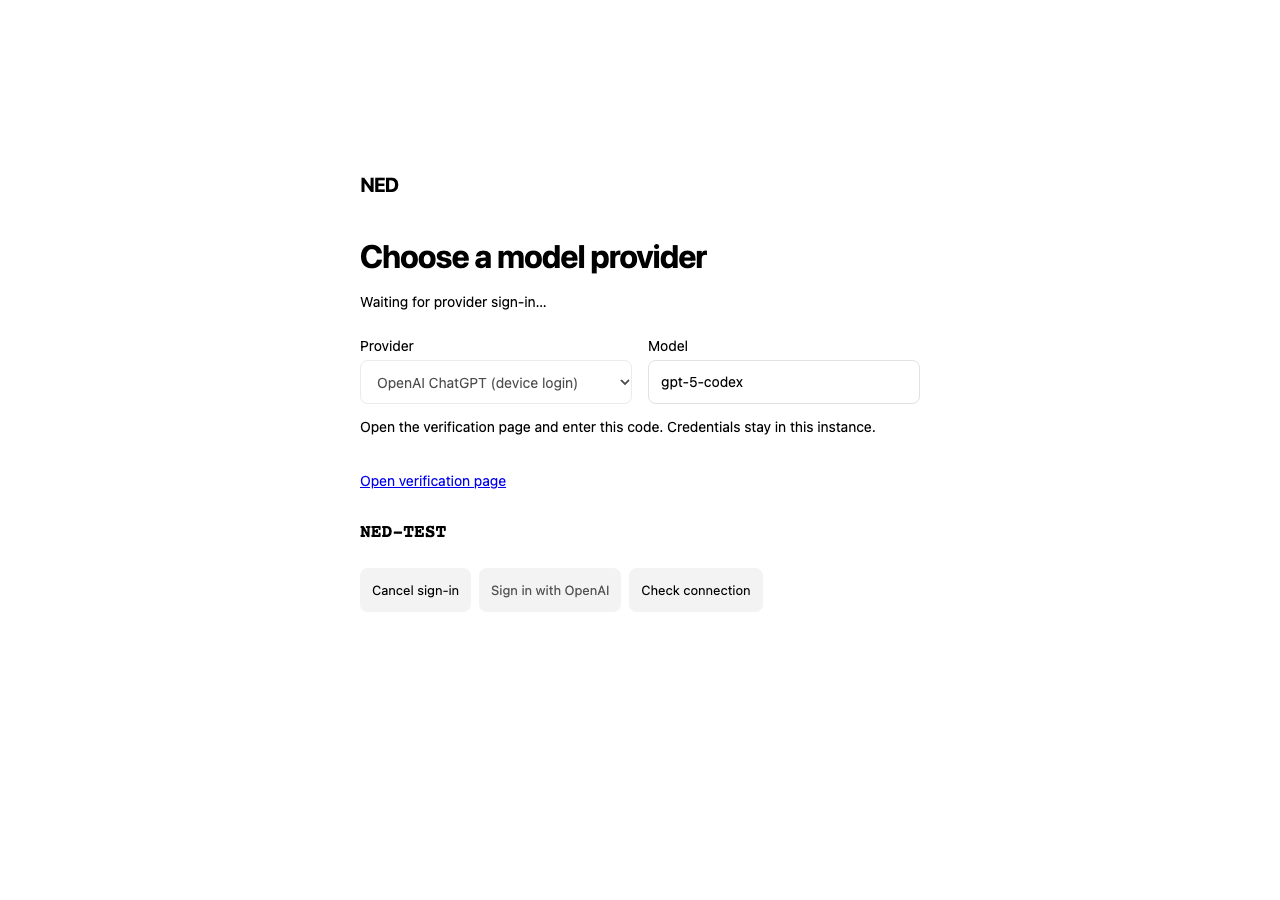
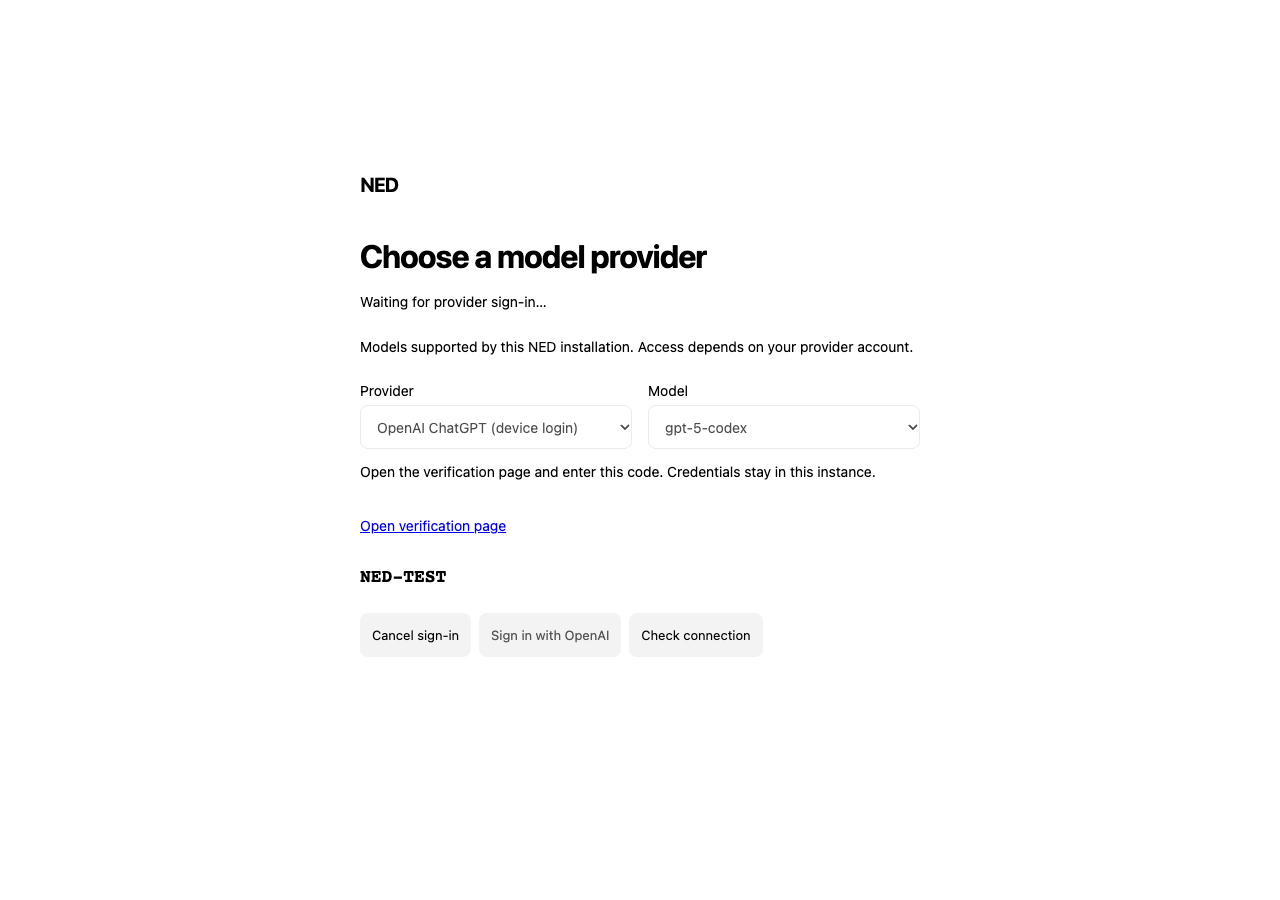
feat: populate provider-specific model choices from Hermes

Changed region(s): [[0.2812, 0.3733, 0.7188, 0.7156], [0.5, 0.6533, 0.5938, 0.7156], [0.375, 0.6533, 0.4688, 0.7156]]

diff --git a/docs/features/model-setup/tests/TC-002.test.js b/docs/features/model-setup/tests/TC-002.test.js
@@ -1,3 +1,4 @@
+import {modelCatalog} from './catalog-fixture.js';
 import test from 'node:test';
 import assert from 'node:assert/strict';
 import {mkdtemp,mkdir,readFile,rm} from 'node:fs/promises';
@@ -10,7 +11,7 @@ import {browserChat,expect} from '../../communicator/tests/browser-chat-fixture.
 test('TC-002: served local provider setup clears secrets, preserves draft and bypasses configured profiles',{timeout:45000},async t=>{
   const root=await mkdtemp(path.join(tmpdir(),'ned-model-ui-'));t.after(()=>rm(root,{recursive:true,force:true}));
   let reject=true,calls=0;
-  const models=createModelSetup({home:root,env:{HERMES_HOME:path.join(root,'profile')},fetch:async(url,options)=>{calls++;assert.equal(url,'https://openrouter.ai/api/v1/key');assert.equal(options.headers.Authorization,'Bearer synthetic-local-provider-key');return new Response('{}',{status:reject?401:200});}});
+  const models=createModelSetup({modelCatalog,home:root,env:{HERMES_HOME:path.join(root,'profile')},fetch:async(url,options)=>{calls++;assert.equal(url,'https://openrouter.ai/api/v1/key');assert.equal(options.headers.Authorization,'Bearer synthetic-local-provider-key');return new Response('{}',{status:reject?401:200});}});
   const chat=await browserChat(t,{modelSetup:models});await chat.ready();
   const card=chat.page.locator('#model-setup');await expect(card).toBeVisible();await expect(chat.page.locator('#chat-send')).toBeDisabled();
   await expect(card).toHaveAttribute('open','');
@@ -31,9 +32,9 @@ test('TC-002: served local provider setup clears secrets, preserves draft and by
 test('TC-002: hosted setup offers instance configuration and optional account inheritance without copying an account key',{timeout:45000},async t=>{
   const root=await mkdtemp(path.join(tmpdir(),'ned-hosted-model-ui-'));t.after(()=>rm(root,{recursive:true,force:true}));
   const id=randomUUID(),origin='https://staging.ned.datanav.app',token='ned_'+'h'.repeat(43),connection={id:randomUUID(),version:randomUUID(),provider:'openrouter',model:'openai/gpt-4.1'};let configured=false;
-  const models=createModelSetup({home:root,env:{HERMES_HOME:path.join(root,'profile')},fetch:async()=>Response.json({configured,connection:configured?connection:null,baseUrl:origin+'/api/models/instances/'+id+'/v1'})});
+  const models=createModelSetup({modelCatalog,home:root,env:{HERMES_HOME:path.join(root,'profile')},fetch:async()=>Response.json({configured,connection:configured?connection:null,baseUrl:origin+'/api/models/instances/'+id+'/v1'})});
   await models.register({origin,id,token,kind:'hosted'});
-  const chat=await browserChat(t,{modelSetup:models});await chat.ready();await expect(chat.page.locator('#model-setup')).toBeVisible();await expect(chat.page.locator('#model-setup-form')).toBeVisible();await expect(chat.page.getByRole('link',{name:'Set up in NED Hub'})).toHaveAttribute('href',origin+'/?settings=model');
+  const chat=await browserChat(t,{modelSetup:models});await chat.ready();await expect(chat.page.locator('#model-setup')).toBeVisible();await expect(chat.page.locator('#model-setup-form')).toBeVisible();await expect(chat.page.getByRole('link',{name:'Set up in NED Hub'})).toHaveCount(0);
   configured=true;await chat.page.getByRole('button',{name:'Check connection'}).click();await expect(chat.page.locator('#model-setup')).toBeHidden();await expect(chat.page.locator('#chat-send')).toBeEnabled();
   const profile=await readFile(path.join(root,'profile/config.yaml'),'utf8');assert(profile.includes(token));assert(!profile.includes('synthetic-local-provider-key'));await chat.send('Hosted inherited connection');assert.deepEqual(chat.errors,[]);
 });
@@ -42,7 +43,7 @@ test('TC-002: instance device login shows only challenge, supports cancel/retry 
   const root=await mkdtemp(path.join(tmpdir(),'ned-device-ui-')),profile=path.join(root,'profile');await mkdir(profile,{mode:0o700});t.after(()=>rm(root,{recursive:true,force:true}));
   let approve,stops=0;
   const adapter={available:async()=>true,async start(input,hooks){let reject,resolve;const done=new Promise((yes,no)=>{resolve=yes;reject=no;});approve=async()=>{let release;try{release=await hooks.beforeCommit();await import('node:fs/promises').then(fs=>fs.writeFile(path.join(profile,'config.yaml'),'model: {provider: openai, default: fixture, api_key: synthetic-configured-key}\n',{mode:0o600}));resolve();}finally{await release?.();}};queueMicrotask(()=>hooks.event({type:'challenge',verificationUri:'https://auth.openai.com/codex/device',userCode:'NED-TEST',deviceSecret:'never-display'}));return {done,stop(){stops++;reject(Error('cancelled'));}};}};
-  const models=createModelSetup({home:root,env:{HERMES_HOME:profile},hermesAdapter:adapter});
+  const models=createModelSetup({modelCatalog,home:root,env:{HERMES_HOME:profile},hermesAdapter:adapter});
   const chat=await browserChat(t,{modelSetup:models});await chat.ready();await expect(chat.page.locator('#model-setup')).toBeVisible();
   await chat.page.getByLabel('Provider',{exact:true}).selectOption('openai-codex');await expect(chat.page.locator('#model-key')).toBeHidden();await chat.page.getByRole('button',{name:'Sign in with OpenAI',exact:true}).click();await expect(chat.page.locator('#model-device-code')).toHaveText('NED-TEST');assert(!(await chat.page.content()).includes('never-display'));
   if(process.env.NED_MODEL_SCREENSHOT_DIR){await mkdir(process.env.NED_MODEL_SCREENSHOT_DIR,{recursive:true});for(const width of [1280,320]){await chat.page.setViewportSize({width,height:900});assert.equal(await chat.page.evaluate(()=>globalThis.document.documentElement.scrollWidth>globalThis.innerWidth),false);await chat.page.screenshot({path:path.join(process.env.NED_MODEL_SCREENSHOT_DIR,'device-'+width+'.png')});}}
@@ -54,7 +55,7 @@ test('TC-002: instance device login shows only challenge, supports cancel/retry 
 
 test('TC-002: status failure cannot bypass first-use setup and lost access clears the flow before reauthentication',{timeout:45000},async t=>{
   const root=await mkdtemp(path.join(tmpdir(),'ned-model-gate-'));t.after(()=>rm(root,{recursive:true,force:true}));
-  const models=createModelSetup({home:root,env:{HERMES_HOME:path.join(root,'profile')}});
+  const models=createModelSetup({modelCatalog,home:root,env:{HERMES_HOME:path.join(root,'profile')}});
   const chat=await browserChat(t,{modelSetup:models,deferLogin:true});
   let release;const waiting=new Promise(resolve=>{release=resolve;});
   let first=true;
@@ -71,4 +72,18 @@ test('TC-002: status failure cannot bypass first-use setup and lost access clear
   await expect(card).toBeHidden();await expect(chat.page.locator('#access-gate')).toBeVisible();await expect(chat.page.locator('#model-key')).toHaveValue('');
   await chat.page.locator('#access-token').fill(chat.accessToken);await chat.page.locator('#access-submit').click();
   await expect(card).toBeVisible();await expect(chat.page.locator('#model-setup-form')).toBeVisible();await expect(chat.page.locator('#chat-send')).toBeDisabled();assert.deepEqual(chat.errors,[]);
+});
+
+
+test('TC-002: provider choices, unavailable retry and existing unlisted model stay user friendly', {timeout:45000},async t=>{
+ const root=await mkdtemp(path.join(tmpdir(),'ned-model-picker-'));t.after(()=>rm(root,{recursive:true,force:true}));let inventory=await modelCatalog();
+ const models=createModelSetup({home:root,env:{HERMES_HOME:path.join(root,'profile')},modelCatalog:async()=>inventory});
+ const chat=await browserChat(t,{modelSetup:models});await chat.ready();const provider=chat.page.getByLabel('Provider',{exact:true}),select=chat.page.getByLabel('Model',{exact:true});
+ await expect(select).toHaveJSProperty('tagName','SELECT');await expect(chat.page.locator('#model-hub-link')).toHaveCount(0);
+ for(const [id,ids] of Object.entries(inventory)){if(id==='openai-codex')continue;await provider.selectOption(id);await expect(select.locator('option')).toHaveText(ids);await expect(select).toHaveValue(ids[0]);}
+ await chat.page.getByLabel('API key',{exact:true}).fill('synthetic-unsaved-provider-key');await provider.selectOption('openai');await expect(chat.page.getByLabel('API key',{exact:true})).toHaveValue('');await select.selectOption('gpt-4.1-mini');await chat.page.getByRole('button',{name:'Check connection',exact:true}).click();await expect(select).toHaveValue('gpt-4.1-mini');
+ inventory={};await chat.page.getByRole('button',{name:'Check connection',exact:true}).click();await expect(select).toHaveValue('');await expect(chat.page.getByRole('button',{name:'Connect provider',exact:true})).toBeDisabled();await expect(chat.page.locator('#model-catalog-status')).toContainText('unavailable');
+ inventory=await modelCatalog();await chat.page.getByRole('button',{name:'Check connection',exact:true}).click();await expect(select).toHaveValue('gpt-4.1');
+ await mkdir(path.join(root,'profile'),{recursive:true,mode:0o700});await (await import('node:fs/promises')).writeFile(path.join(root,'profile/config.yaml'),'model: {provider: openai, default: existing-custom-model, api_key: synthetic-existing-key}\n',{mode:0o600});
+ await chat.page.getByRole('button',{name:'Check connection',exact:true}).click();await expect(chat.page.locator('#model-setup')).toBeHidden();await chat.page.getByRole('button',{name:'Model provider',exact:true}).click();await expect(select).toHaveValue('existing-custom-model');await expect(select.locator('option:checked')).toBeDisabled();await expect(chat.page.getByRole('button',{name:'Connect provider',exact:true})).toBeDisabled();await expect(chat.page.locator('#model-setup-close')).toBeVisible();assert.deepEqual(chat.errors,[]);
 });

diff --git a/apps/com/src/public/model-setup.js b/apps/com/src/public/model-setup.js
@@ -1,7 +1,7 @@
 export function mountModelSetup({document,request=globalThis.fetch,changed=()=>{}}={}){
   const card=document.getElementById('model-setup'),toggle=document.getElementById('model-setup-toggle');
   if(!card||!toggle)return {ready:()=>true,refresh:async()=>{}};
-  const element=id=>document.getElementById(id),status=element('model-setup-status'),form=element('model-setup-form'),provider=element('model-provider'),model=element('model-name'),key=element('model-key'),hub=element('model-hub-link'),check=element('model-check');
+  const element=id=>document.getElementById(id),status=element('model-setup-status'),form=element('model-setup-form'),provider=element('model-provider'),model=element('model-name'),key=element('model-key'),check=element('model-check');
   let state,ready=false,busy=false,opened=false,nonce,closed=false,version=0,login,pollTimer;
   let authenticated=!document.getElementById('app-shell')?.hidden;
   const closeButton=element('model-setup-close');
@@ -19,7 +19,15 @@ export function mountModelSetup({document,request=globalThis.fetch,changed=()=>{
   document.addEventListener('ned-auth-lost',()=>{authenticated=false;version++;ready=false;state=null;nonce=null;login=null;clearTimeout(pollTimer);key.value='';render();});
   document.addEventListener('ned-auth-entered',()=>{const recheck=!authenticated;authenticated=true;render();if(recheck)void discover();});
   const pending=()=>login&&['starting','waiting','authorizing'].includes(login.state);
-  const defaults={openai:'gpt-4.1',openrouter:'openai/gpt-4.1',gemini:'gemini-2.5-flash',anthropic:'claude-sonnet-4-5','openai-codex':'gpt-5-codex'};
+  const providers=['openai','openrouter','gemini','anthropic','openai-codex'];
+  const choices=()=>Array.isArray(state?.models?.[provider.value])?state.models[provider.value].filter(id=>typeof id==='string'&&/^[a-zA-Z0-9][a-zA-Z0-9._:/-]{0,199}$/.test(id)).slice(0,100):[];
+  function populate(selected){
+    model.replaceChildren();const ids=choices();
+    for(const id of ids){const option=document.createElement('option');option.value=id;option.textContent=id;model.append(option);}
+    if(selected&&!ids.includes(selected)){const option=document.createElement('option');option.value=selected;option.textContent=selected+' (current configuration)';option.disabled=true;model.prepend(option);}
+    if(!model.options.length){const option=document.createElement('option');option.value='';option.textContent='Models unavailable';model.append(option);}
+    model.value=selected??ids[0]??'';
+  }
   function render(){
     const visible=!closed&&authenticated&&(!ready||opened);
     card.classList.toggle('model-onboarding',!ready);
@@ -29,14 +37,13 @@ export function mountModelSetup({document,request=globalThis.fetch,changed=()=>{
     else if(!visible&&card.open){card.close();if(authenticated&&ready)element('chat-message').focus();}
     form.hidden=!state;
     element('model-connect').hidden=form.hidden;
-    hub.hidden=!state?.settingsUrl;
-    hub.removeAttribute('href');
-    if(state?.settingsUrl)hub.href=state.settingsUrl;
+    const listed=choices().includes(model.value);
+    element('model-catalog-status').textContent=choices().length?'Models supported by this NED installation. Access depends on your provider account.':'Model list is unavailable. Check connection to try again.';
     const device=provider.value==='openai-codex';
     key.closest('.model-key-field').hidden=device;key.required=!device;
     provider.querySelector('[value="openai-codex"]').disabled=!state?.deviceLogin;
     for(const input of [provider,model,key,element('model-connect')])input.disabled=busy||Boolean(pending());
-    element('model-connect').disabled=busy||Boolean(pending())||!nonce;
+    element('model-connect').disabled=busy||Boolean(pending())||!nonce||!listed;
     element('model-connect').textContent=device?'Sign in with OpenAI':'Connect provider';
     element('model-login-cancel').hidden=!pending();element('model-login-cancel').disabled=busy||login?.state==='authorizing';
     const panel=element('model-device');panel.hidden=!pending()||!login.verificationUri;
@@ -52,7 +59,6 @@ export function mountModelSetup({document,request=globalThis.fetch,changed=()=>{
     if(!response.ok)throw new Error('Model settings are unavailable. Check configuration and try again.');
     const data=await response.json();
     if(typeof data.configured!=='boolean'||!['local','profile','hub'].includes(data.source))throw new Error('Model settings are unavailable. Check configuration and try again.');
-    if(data.settingsUrl){const url=new URL(data.settingsUrl);if(url.protocol!=='https:'&&!(url.protocol==='http:'&&['127.0.0.1','localhost','[::1]'].includes(url.hostname)))throw new Error('Invalid settings');}
     return data;
   }
   async function refresh(forceOpen=false){
@@ -60,7 +66,7 @@ export function mountModelSetup({document,request=globalThis.fetch,changed=()=>{
     const current=++version;busy=true;render();
     try{
       const data=await read();if(closed||current!==version)return;
-      state=data;nonce=data.nonce;ready=data.configured;key.value='';if(Object.hasOwn(defaults,data.provider))provider.value=data.provider;if(typeof data.model==='string')model.value=data.model;if(data.login){login=data.login;schedulePoll();}
+      const previousProvider=provider.value,previousModel=model.value;state=data;nonce=data.nonce;ready=data.configured;key.value='';if(providers.includes(data.provider))provider.value=data.provider;populate(typeof data.model==='string'&&data.configured?data.model:previousProvider===provider.value&&choices().includes(previousModel)?previousModel:undefined);if(data.login){login=data.login;schedulePoll();}
       status.textContent=ready?'Model provider is configured.':'Model provider is required before chatting.';
     }catch{if(!closed&&current===version){ready=false;status.textContent='Model settings are unavailable. Check configuration and try again.';}}
     finally{if(!closed&&current===version){busy=false;render();}}
@@ -91,8 +97,9 @@ export function mountModelSetup({document,request=globalThis.fetch,changed=()=>{
     if(busy||!pending())return;const current=version;busy=true;render();
     try{const response=await request('/api/v1/model-setup',{method:'POST',headers:{'Content-Type':'application/json','X-NED-Models':'1'},body:JSON.stringify({action:'cancel-login',id:login.id}),signal:AbortSignal.timeout(15000)});if(closed||current!==version)return;if(!response.ok)throw Error();login=null;clearTimeout(pollTimer);await refresh(true);status.textContent='Provider sign-in cancelled.';}catch{status.textContent='Check connection before retrying sign-in.';}finally{busy=false;render();}
   });
-  form.addEventListener('submit',event=>{event.preventDefault();if(!nonce||busy)return;const body={nonce,provider:provider.value,model:model.value,replace:state?.source!=='local',...(provider.value==='openai-codex'?{action:'login'}:{apiKey:key.value})};nonce=null;void write(body);});
-  provider.addEventListener('change',()=>{model.value=defaults[provider.value]??'';render();});
+  form.addEventListener('submit',event=>{event.preventDefault();if(!nonce||busy||!choices().includes(model.value))return;const body={nonce,provider:provider.value,model:model.value,replace:state?.source!=='local',...(provider.value==='openai-codex'?{action:'login'}:{apiKey:key.value})};nonce=null;void write(body);});
+  provider.addEventListener('change',()=>{key.value='';populate();render();});
+  model.addEventListener('change',render);
   check.addEventListener('click',()=>{if(busy)return;if(state?.source==='hub')void write({action:'inherit'});else void refresh();});
   toggle.addEventListener('click',()=>{opened=!opened;render();if(opened)void refresh();});
   async function discover(){

diff --git a/apps/core/src/model-setup.js b/apps/core/src/model-setup.js
@@ -1,3 +1,4 @@
+import {cleanModelCatalog} from './model-catalog.js';
 import {constants} from 'node:fs';
 import {open,mkdir,lstat,rename,unlink} from 'node:fs/promises';
 import {homedir} from 'node:os';
@@ -39,7 +40,7 @@ async function jsonResponse(response,limit=32768){
   for await(const chunk of response.body){size+=chunk.length;if(size>limit){await response.body.cancel().catch(()=>{});throw new ModelSetupError();}chunks.push(chunk);}
   return JSON.parse(Buffer.concat(chunks).toString('utf8'));
 }
-export function createModelSetup({home=homedir(),env=process.env,fetch:request=globalThis.fetch,enabled=true,hermesAdapter,clock=Date.now}={}){
+export function createModelSetup({home=homedir(),env=process.env,fetch:request=globalThis.fetch,enabled=true,hermesAdapter,modelCatalog,clock=Date.now}={}){
   const root=env.HERMES_HOME??path.join(home,'.hermes'),intents=new Map(),requests=new Set();
   const adapter=hermesAdapter??createHermesModelAdapter({env,profile:root}),logins=new Map();
   let hub,closed=false,queue=Promise.resolve();
@@ -132,20 +133,22 @@ export function createModelSetup({home=homedir(),env=process.env,fetch:request=g
       return {provider:'custom:ned-hub',model:c.model};
     });
   }
+  async function catalog(){try{return cleanModelCatalog(await (modelCatalog?modelCatalog():adapter.catalog?.()));}catch{return cleanModelCatalog(null);}}
   async function status(){
     if(closed)throw new ModelSetupError();
     const deviceLogin=enabled&&process.platform!=='win32'&&await adapter.available();
     const identity=hub,current=await profile();if(identity!==hub)throw new ModelSetupError(409,'model_setup_changed');
+    const models=modelCatalog||deviceLogin?await catalog():cleanModelCatalog(null);
     const settingsUrl=identity?identity.origin+'/?settings=model':null;
     for(const [nonce,intent]of intents)if(intent.expires<clock())intents.delete(nonce);
     if(intents.size>=16)intents.delete(intents.keys().next().value);
-    const nonce=randomBytes(32).toString('base64url');intents.set(nonce,{fingerprint:current.fingerprint,expires:clock()+300000});
+    const nonce=randomBytes(32).toString('base64url');intents.set(nonce,{fingerprint:current.fingerprint,expires:clock()+300000,models});
     if(current.kind==='hub'){
-      if(!hub||current.marker.origin!==hub.origin||current.marker.instanceId!==hub.id)return {deviceLogin,login:activeLogin(),configured:false,source:'hub',settingsUrl,hosted:hub?.kind==='hosted',canDisconnect:['local','hub','instance'].includes(current.config.ned_model?.kind),nonce};
-      const data=await remote(identity);if(identity!==hub)throw new ModelSetupError(409,'model_setup_changed');return {deviceLogin,login:activeLogin(),configured:Boolean(data.connection)&&data.connection.version===current.marker.connectionVersion&&current.entry.api_key===hub.token,source:'hub',settingsUrl,hosted:hub.kind==='hosted',canDisconnect:true,provider:data.connection?.provider,model:data.connection?.model??null,nonce};
+      if(!hub||current.marker.origin!==hub.origin||current.marker.instanceId!==hub.id)return {models,catalogSource:'installed-hermes',deviceLogin,login:activeLogin(),configured:false,source:'hub',settingsUrl,hosted:hub?.kind==='hosted',canDisconnect:['local','hub','instance'].includes(current.config.ned_model?.kind),nonce};
+      const data=await remote(identity);if(identity!==hub)throw new ModelSetupError(409,'model_setup_changed');return {models,catalogSource:'installed-hermes',deviceLogin,login:activeLogin(),configured:Boolean(data.connection)&&data.connection.version===current.marker.connectionVersion&&current.entry.api_key===hub.token,source:'hub',settingsUrl,hosted:hub.kind==='hosted',canDisconnect:true,provider:data.connection?.provider,model:data.connection?.model??null,nonce};
     }
-    if(current.kind==='profile')return {deviceLogin,login:activeLogin(),configured:true,source:'profile',settingsUrl,hosted:hub?.kind==='hosted',canDisconnect:['local','hub','instance'].includes(current.config.ned_model?.kind),provider:current.config.ned_model?.selectedProvider??current.model.provider,model:publicModel(current),nonce};
-    return {deviceLogin,login:activeLogin(),configured:false,source:current.config.ned_model?.kind==='instance'?'local':hub?'hub':'local',settingsUrl,hosted:hub?.kind==='hosted',canDisconnect:['local','hub','instance'].includes(current.config.ned_model?.kind),nonce};
+    if(current.kind==='profile')return {models,catalogSource:'installed-hermes',deviceLogin,login:activeLogin(),configured:true,source:'profile',settingsUrl,hosted:hub?.kind==='hosted',canDisconnect:['local','hub','instance'].includes(current.config.ned_model?.kind),provider:current.config.ned_model?.selectedProvider??current.model.provider,model:publicModel(current),nonce};
+    return {models,catalogSource:'installed-hermes',deviceLogin,login:activeLogin(),configured:false,source:current.config.ned_model?.kind==='instance'?'local':hub?'hub':'local',settingsUrl,hosted:hub?.kind==='hosted',canDisconnect:['local','hub','instance'].includes(current.config.ned_model?.kind),nonce};
   }
   const pending=j=>['starting','waiting','authorizing'].includes(j.state);
   const publicLogin=j=>j&&({id:j.id,state:j.state,expiresAt:j.expiresAt,...(pending(j)&&j.verificationUri?{verificationUri:j.verificationUri,userCode:j.userCode}:{})});
@@ -179,6 +182,7 @@ export function createModelSetup({home=homedir(),env=process.env,fetch:request=g
     if(!enabled||closed)throw new ModelSetupError(403,'model_setup_forbidden');
     const intent=intents.get(input?.nonce);intents.delete(input?.nonce);
     if(!intent||intent.expires<clock()||Object.keys(input).some(k=>!['action','nonce','provider','model','replace'].includes(k))||input.provider!=='openai-codex'||!validModel(input.model)||input.replace!==undefined&&typeof input.replace!=='boolean')throw new ModelSetupError(400,'model_setup_invalid');
+    if(!intent.models?.[input.provider]?.includes(input.model)||!(await catalog())[input.provider]?.includes(input.model))throw new ModelSetupError(400,'model_setup_invalid');
     if([...logins.values()].some(j=>!j.finished))throw new ModelSetupError(409,'model_login_active');
     const current=await profile();if(current.fingerprint!==intent.fingerprint||current.kind!=='missing'&&input.replace!==true)throw new ModelSetupError(409,'model_setup_changed');
     if(!await adapter.available())throw new ModelSetupError(503,'model_authentication_unavailable');
@@ -219,6 +223,7 @@ export function createModelSetup({home=homedir(),env=process.env,fetch:request=g
       if(!enabled)throw new ModelSetupError(403,'model_setup_forbidden');
       const intent=intents.get(input?.nonce);intents.delete(input?.nonce);
       if(!intent||intent.expires<clock()||!input||Object.keys(input).some(k=>!['nonce','provider','model','apiKey','replace'].includes(k))||input.replace!==undefined&&typeof input.replace!=='boolean'||typeof input.provider!=='string'||!Object.hasOwn(providerUrls,input.provider)||!validModel(input.model)||typeof input.apiKey!=='string'||!/^[\x21-\x7e]{16,4096}$/.test(input.apiKey))throw new ModelSetupError(400,'model_setup_invalid');
+      if(!intent.models?.[input.provider]?.includes(input.model)||!(await catalog())[input.provider]?.includes(input.model))throw new ModelSetupError(400,'model_setup_invalid');
       return (async()=>{
         const current=await profile();if(current.fingerprint!==intent.fingerprint||current.kind!=='missing'&&input.replace!==true)throw new ModelSetupError(409,'model_setup_changed');
         const provider=input.provider,headers=provider==='gemini'?{'x-goog-api-key':input.apiKey}:provider==='anthropic'?{'x-api-key':input.apiKey,'anthropic-version':'2023-06-01'}:{Authorization:'Bearer '+input.apiKey};

diff --git a/docs/features/model-setup/tests/TC-003.test.js b/docs/features/model-setup/tests/TC-003.test.js
@@ -1,3 +1,4 @@
+import {modelCatalog} from './catalog-fixture.js';
 import test from 'node:test';
 import assert from 'node:assert/strict';
 import {mkdtemp,mkdir,rm,readFile,writeFile} from 'node:fs/promises';
@@ -10,7 +11,7 @@ const until=async(fn,predicate)=>{for(let i=0;i<1000;i++){const value=await fn()
 async function fixture(t,{clock=Date.now}={}){
   const root=await mkdtemp(path.join(tmpdir(),'ned-device-')),profile=path.join(root,'profile');await mkdir(profile,{mode:0o700});let event,commit,resolve,reject,commits=0,stops=0;
   const adapter={available:async()=>true,async start(input,hooks){event=hooks.event;commit=hooks.beforeCommit;const done=new Promise((yes,no)=>{resolve=yes;reject=no;});queueMicrotask(()=>event({type:'challenge',verificationUri:'https://auth.openai.com/codex/device',userCode:'NED-TEST',deviceSecret:'never-return'}));return {done,stop(){stops++;reject(Error('stopped'));}};}};
-  const models=createModelSetup({home:root,env:{HERMES_HOME:profile},hermesAdapter:adapter,clock});t.after(async()=>{await models.close();await rm(root,{recursive:true,force:true});});
+  const models=createModelSetup({modelCatalog,home:root,env:{HERMES_HOME:profile},hermesAdapter:adapter,clock});t.after(async()=>{await models.close();await rm(root,{recursive:true,force:true});});
   return {models,profile,get commits(){return commits;},get stops(){return stops;},async approve(){let release;try{release=await commit();commits++;await writeFile(path.join(profile,'config.yaml'),'model: {provider: openai, default: persisted}\n',{mode:0o600});resolve();}catch{reject(Error('denied'));}finally{await release?.();}},event:value=>event(value)};
 }
 async function start(f,authorize=()=>true){return f.models.startLogin({action:'login',nonce:(await f.models.status()).nonce,provider:'openai-codex',model:'fixture-model'},authorize);}
@@ -36,7 +37,7 @@ test('TC-003: Gemini and Claude keys validate at fixed native provider endpoints
   for(const provider of ['gemini','anthropic'])await t.test(provider,async t=>{
     const root=await mkdtemp(path.join(tmpdir(),'ned-native-key-')),profile=path.join(root,'profile');await mkdir(profile,{mode:0o700});let commits=0;
     const key='synthetic-native-provider-key';const adapter={available:async()=>true,async start(input,hooks){assert.equal(input.action,'configure');assert.equal(input.provider,provider);assert.equal(input.apiKey,key);const done=(async()=>{const release=await hooks.beforeCommit();try{commits++;await writeFile(path.join(profile,'.env'),(provider==='gemini'?'GEMINI_API_KEY':'ANTHROPIC_API_KEY')+'='+key+'\n',{mode:0o600});await writeFile(path.join(profile,'config.yaml'),'model: {provider: '+provider+', default: chosen}\nned_model: {kind: instance}\n',{mode:0o600});}finally{await release();}})();return {done,stop(){}};}};
-    const models=createModelSetup({home:root,env:{HERMES_HOME:profile},hermesAdapter:adapter,fetch:async(url,options)=>{if(String(url).includes('/api/models/instances/'))return Response.json({configured:false,connection:null,baseUrl:'https://hub.example/api/models/instances/'+ 'a'.repeat(36)+'/v1'});assert.equal(url,provider==='gemini'?'https://generativelanguage.googleapis.com/v1beta/models':'https://api.anthropic.com/v1/models');assert.equal(options.headers[provider==='gemini'?'x-goog-api-key':'x-api-key'],key);assert.equal(options.redirect,'error');return new Response('{}');}});
+    const models=createModelSetup({modelCatalog,home:root,env:{HERMES_HOME:profile},hermesAdapter:adapter,fetch:async(url,options)=>{if(String(url).includes('/api/models/instances/'))return Response.json({configured:false,connection:null,baseUrl:'https://hub.example/api/models/instances/'+ 'a'.repeat(36)+'/v1'});assert.equal(url,provider==='gemini'?'https://generativelanguage.googleapis.com/v1beta/models':'https://api.anthropic.com/v1/models');assert.equal(options.headers[provider==='gemini'?'x-goog-api-key':'x-api-key'],key);assert.equal(options.redirect,'error');return new Response('{}');}});
     t.after(async()=>{await models.close();await rm(root,{recursive:true,force:true});});
     await models.register({origin:'https://hub.example',id:'11111111-1111-4111-8111-111111111111',token:'ned_'+'a'.repeat(43),kind:'hosted'});
     const result=await models.configure({nonce:(await models.status()).nonce,provider,model:'chosen',apiKey:key});assert.equal(result.configured,true);assert.equal(commits,1);assert.equal((await models.prepare()).provider,provider);assert(!(JSON.stringify(await models.status())).includes(key));
@@ -46,7 +47,7 @@ test('TC-003: Gemini and Claude keys validate at fixed native provider endpoints
 test('TC-003: cancellation retains its process slot until the owned child actually exits',async t=>{
   const root=await mkdtemp(path.join(tmpdir(),'ned-device-stop-')),profile=path.join(root,'profile');await mkdir(profile,{mode:0o700});const exits=[];let started=0;
   const adapter={available:async()=>true,async start(input,hooks){started++;const done=new Promise((resolve,reject)=>{exits.push(()=>reject(Error('owned child exited')));});queueMicrotask(()=>hooks.event({type:'challenge',verificationUri:'https://auth.openai.com/codex/device',userCode:'NED-TEST'}));return {done,stop(){/* Termination requested; the controlled child has not exited. */}};}};
-  const models=createModelSetup({home:root,env:{HERMES_HOME:profile},hermesAdapter:adapter});t.after(async()=>{for(const exit of exits)exit();await models.close();await rm(root,{recursive:true,force:true});});
+  const models=createModelSetup({modelCatalog,home:root,env:{HERMES_HOME:profile},hermesAdapter:adapter});t.after(async()=>{for(const exit of exits)exit();await models.close();await rm(root,{recursive:true,force:true});});
   const request=async()=>models.startLogin({action:'login',nonce:(await models.status()).nonce,provider:'openai-codex',model:'fixture'},()=>true);
   const job=await request();await until(()=>models.login(job.id),j=>j.state==='waiting');const cancelling=models.cancelLogin(job.id);await assert.rejects(request(),e=>e.code==='model_login_active');assert.equal(started,1);for(const exit of exits)exit();await cancelling;
 });

diff --git a/apps/com/src/public/index.html b/apps/com/src/public/index.html
@@ -59,8 +59,8 @@
 
       <dialog id="model-setup" aria-labelledby="model-setup-title" aria-describedby="model-setup-status" hidden><div class="model-setup-content"><div class="model-setup-header"><strong>NED</strong><button id="model-setup-close" type="button" aria-label="Close model settings" hidden>Close</button></div>
         <h2 id="model-setup-title" tabindex="-1">Choose a model provider</h2><p id="model-setup-status" role="status">Checking model configuration…</p>
-        <a id="model-hub-link" target="_blank" rel="noopener noreferrer" hidden>Set up in NED Hub</a>
-        <form id="model-setup-form" autocomplete="off" hidden><div class="model-field"><label for="model-provider">Provider</label><select id="model-provider"><option value="openai">OpenAI</option><option value="openrouter">OpenRouter</option><option value="gemini">Google Gemini</option><option value="anthropic">Claude (Anthropic)</option><option value="openai-codex" disabled>OpenAI ChatGPT (device login)</option></select></div><div class="model-field"><label for="model-name">Model</label><input id="model-name" value="gpt-4.1" maxlength="200" required></div><div class="model-field model-key-field"><label for="model-key">API key</label><input id="model-key" type="password" autocomplete="new-password" minlength="16" maxlength="4096" required></div></form>
+        <p id="model-catalog-status" role="status">Models supported by this NED installation. Access depends on your provider account.</p>
+        <form id="model-setup-form" autocomplete="off" hidden><div class="model-field"><label for="model-provider">Provider</label><select id="model-provider"><option value="openai">OpenAI</option><option value="openrouter">OpenRouter</option><option value="gemini">Google Gemini</option><option value="anthropic">Claude (Anthropic)</option><option value="openai-codex" disabled>OpenAI ChatGPT (device login)</option></select></div><div class="model-field"><label for="model-name">Model</label><select id="model-name" required aria-describedby="model-catalog-status"><option value="">Loading models…</option></select></div><div class="model-field model-key-field"><label for="model-key">API key</label><input id="model-key" type="password" autocomplete="new-password" minlength="16" maxlength="4096" required></div></form>
         <div id="model-device" hidden><p>Open the verification page and enter this code. Credentials stay in this instance.</p><a id="model-device-link" target="_blank" rel="noopener noreferrer">Open verification page</a><p><code id="model-device-code"></code></p></div>
         <div class="model-actions"><button id="model-login-cancel" type="button" hidden>Cancel sign-in</button><button id="model-connect" type="submit" form="model-setup-form">Connect provider</button><button id="model-check" type="button">Check connection</button><button id="model-disconnect" type="button" hidden>Disconnect instance provider</button></div>
       </div></dialog>

diff --git a/docs/features/model-setup/tests/TC-001.test.js b/docs/features/model-setup/tests/TC-001.test.js
@@ -1,3 +1,4 @@
+import {modelCatalog} from './catalog-fixture.js';
 import test from 'node:test';
 import assert from 'node:assert/strict';
 import {mkdtemp,mkdir,writeFile,readFile,stat,rm,symlink} from 'node:fs/promises';
@@ -10,7 +11,7 @@ import {createCommunicatorServer} from '../../../../apps/com/src/server.js';
 import {exposeNedApiPath} from '../../../../apps/core/src/api-paths.js';
 async function fixture(t,{config='',env={},fetch:request=async()=>new Response('{}'),enabled=true}={}){
   const root=await mkdtemp(path.join(tmpdir(),'ned-model-setup-')),profile=path.join(root,'profile');await mkdir(profile,{mode:0o700});if(config)await writeFile(path.join(profile,'config.yaml'),config,{mode:0o600});
-  const models=createModelSetup({home:root,env:{HERMES_HOME:profile,...env},fetch:request,enabled});
+  const models=createModelSetup({modelCatalog,home:root,env:{HERMES_HOME:profile,...env},fetch:request,enabled});
   t.after(async()=>{await models.close();await rm(root,{recursive:true,force:true});});return {root,profile,models,file:path.join(profile,'config.yaml')};
 }
 test('TC-001: private local setup validates provider, preserves YAML and consumes opaque writes once',async t=>{
@@ -62,4 +63,13 @@ test('TC-001: API credential revocation during provider validation prevents prof
   const saved=await fetch(app.url+'/api/v1/model-setup',{method:'POST',headers:{Authorization:'Bearer '+credential,Origin:app.url,'X-NED-Models':'1','Content-Type':'application/json'},body:JSON.stringify({nonce,provider:'openai',model:'gpt-4.1',apiKey:'synthetic-provider-key'})});
   assert.equal(saved.status,401);assert.equal((await saved.json()).error.code,'model_setup_unauthorized');assert.equal(await readFile(f.file,'utf8'),original);
   assert.equal((await fetch(app.url+'/api/v1/model-setup',{headers:{Authorization:'Bearer '+app.apiCredential,'X-NED-Models':'1'}})).status,200);
+});
+
+
+test('TC-001: model choices are provider-bound and rechecked before any credential validation/write',async t=>{
+ const f=await fixture(t);let calls=0,rows={openai:['listed-model'],openrouter:['other-provider/model']};
+ const models=createModelSetup({home:f.root,env:{HERMES_HOME:f.profile},modelCatalog:async()=>rows,fetch:async()=>{calls++;return Response.json({});}});t.after(()=>models.close());
+ for(const model of ['unknown-model','other-provider/model']){await assert.rejects(models.configure({nonce:(await models.status()).nonce,provider:'openai',model,apiKey:'synthetic-provider-key'}),e=>e.status===400);}
+ const selected=await models.status();rows={openai:[]};await assert.rejects(models.configure({nonce:selected.nonce,provider:'openai',model:'listed-model',apiKey:'synthetic-provider-key'}),e=>e.status===400);assert.equal(calls,0);
+ await assert.rejects(readFile(f.file),e=>e.code==='ENOENT');
 });

diff --git a/docs/features/model-setup/tests/hermes/live.test.js b/docs/features/model-setup/tests/hermes/live.test.js
@@ -15,7 +15,7 @@ test('TC-003 Hermes: real device exchange/store and Gemini/Claude config use pri
   await writeFile(launcher,'#!'+python+'\n'+await readFile(fixture,'utf8'),{mode:0o700});
   for(const provider of ['openai-codex','gemini','anthropic']){
     const profile=path.join(root,provider);await mkdir(profile,{mode:0o700});await writeFile(path.join(profile,'config.yaml'),'agent: {max_turns: 7}\n',{mode:0o600});
-    const adapter=createHermesModelAdapter({env:{PATH:'/usr/bin:/bin',NED_HERMES_SOURCE:source,NED_HERMES_PYTHON:launcher},profile});assert(await adapter.available());let challenges=0,commits=0;
+    const adapter=createHermesModelAdapter({env:{PATH:'/usr/bin:/bin',NED_HERMES_SOURCE:source,NED_HERMES_PYTHON:launcher},profile});assert(await adapter.available());const catalog=await adapter.catalog();for(const id of ['openai','openrouter','gemini','anthropic','openai-codex']){assert(catalog[id].length>0);assert(catalog[id].length<=100);assert(catalog[id].every(model=>typeof model==='string'&&model.length<=200));}const chatModels=JSON.parse(execFileSync(python,['-I','-c',"import json,os,sys;sys.path.insert(0,os.environ['NED_HERMES_SOURCE']);from hermes_cli.models import _PROVIDER_MODELS;print(json.dumps(_PROVIDER_MODELS['openai']))"],{env:{PATH:'/usr/bin:/bin',HOME:root,HERMES_HOME:profile,NED_HERMES_SOURCE:source},encoding:'utf8',stdio:['pipe','pipe','pipe']}));assert(catalog.openai.every(id=>chatModels.includes(id)));assert.equal(catalog.openai[0],chatModels[0]);let challenges=0,commits=0;
     const key=provider==='gemini'?'AIza'+ 'S'.repeat(35):'sk-ant-api03-'+ 'S'.repeat(100);
     const operation=await adapter.start({action:provider==='openai-codex'?'device':'configure',provider,model:'synthetic-model',...(provider==='openai-codex'?{}:{apiKey:key})},{event:m=>{const raw=JSON.stringify(m);assert(!raw.includes(key)&&!raw.includes('private-device-id')&&!raw.includes('private-refresh-token'));if(m.type==='challenge'){challenges++;assert.equal(m.userCode,'NED-TEST');}},beforeCommit:async()=>{commits++;return ()=>{};}});
     await operation.done;assert.equal(commits,1);assert.equal(challenges,provider==='openai-codex'?1:0);

diff --git a/apps/core/src/hermes-model.js b/apps/core/src/hermes-model.js
@@ -1,3 +1,4 @@
+import {cleanModelCatalog} from './model-catalog.js';
 import {spawn} from 'node:child_process';
 import {access} from 'node:fs/promises';
 import {homedir} from 'node:os';
@@ -37,6 +38,6 @@ export function createHermesModelAdapter({env=process.env,profile}={}){
     child.stdin.on('error',()=>{});child.stdin.write(JSON.stringify(input)+'\n');
     const operation={stop,done};operations.add(operation);void done.then(()=>operations.delete(operation),()=>operations.delete(operation));return operation;
   }
-  let availability;
-  return {start,async close(){closed=true;for(const op of operations)op.stop();await Promise.allSettled([...operations].map(op=>op.done));},async available(){if(closed)return false;return availability??=(async()=>{let ok=false,operation;try{operation=await start({action:'inspect'},{event:m=>{ok=m.type==='available'&&m.deviceLogin===true;}});const timeout=setTimeout(operation.stop,10000);try{await operation.done;}finally{clearTimeout(timeout);}return ok;}catch{return false;}})();}};
+  let availability,models=cleanModelCatalog(null);
+  return {start,async catalog(){await this.available();return cleanModelCatalog(closed?null:models);},async close(){closed=true;for(const op of operations)op.stop();await Promise.allSettled([...operations].map(op=>op.done));},async available(){if(closed)return false;return availability??=(async()=>{let ok=false,operation;try{operation=await start({action:'inspect'},{event:m=>{ok=m.type==='available'&&m.deviceLogin===true;if(ok)models=cleanModelCatalog(m.models);}});const timeout=setTimeout(operation.stop,10000);try{await operation.done;}finally{clearTimeout(timeout);}if(!ok)availability=undefined;return ok;}catch{availability=undefined;return false;}})();}};
 }

diff --git a/apps/core/src/model-catalog.js b/apps/core/src/model-catalog.js
@@ -1,0 +1,9 @@
+export const modelProviders=Object.freeze(['openai','openrouter','gemini','anthropic','openai-codex']);
+export function cleanModelCatalog(value){
+  const result={};
+  for(const provider of modelProviders){
+    const rows=value&&Object.hasOwn(value,provider)&&Array.isArray(value[provider])?value[provider]:[];
+    result[provider]=[...new Set(rows.slice(0,100).filter(id=>typeof id==='string'&&/^[a-zA-Z0-9][a-zA-Z0-9._:/-]{0,199}$/.test(id)))];
+  }
+  return result;
+}

diff --git a/docs/features/model-setup/tests/catalog-fixture.js b/docs/features/model-setup/tests/catalog-fixture.js
@@ -1,0 +1,1 @@
+export const modelCatalog=async()=>({openai:['gpt-4.1','gpt-4.1-mini'],openrouter:['openai/gpt-4.1','anthropic/claude-fixture'],gemini:['gemini-2.5-flash','chosen'],anthropic:['claude-sonnet-4-5','chosen'],'openai-codex':['gpt-5-codex','fixture-model','fixture']});

diff --git a/apps/core/src/hermes-model.py b/apps/core/src/hermes-model.py
@@ -38,7 +38,22 @@ def main():
         from hermes_cli.auth_constants import CODEX_OAUTH_CLIENT_ID
     request = read()
     if request.get("action") == "inspect":
-        emit({"type": "available", "deviceLogin": True})
+        with contextlib.redirect_stdout(quiet), contextlib.redirect_stderr(quiet):
+            from hermes_cli.models import _PROVIDER_MODELS, OPENROUTER_MODELS
+            # NED OpenAI uses Chat Completions: use Hermes' native openai list,
+            # not the separate openai-api picker containing Responses-only models.
+            catalogs = {}
+            for provider in ("openai", "openrouter", "gemini", "anthropic", "openai-codex"):
+                rows = OPENROUTER_MODELS if provider == "openrouter" else _PROVIDER_MODELS.get(provider, [])
+                ids = [row[0] if isinstance(row, (list, tuple)) else row for row in rows]
+                catalogs[provider] = []
+                used = 0
+                for model in dict.fromkeys(model for model in ids if isinstance(model, str) and re.fullmatch(r"[a-zA-Z0-9][a-zA-Z0-9._:/-]{0,199}", model)):
+                    if len(catalogs[provider]) >= 100 or used + len(model) > 2000:
+                        break
+                    catalogs[provider].append(model)
+                    used += len(model)
+        emit({"type": "available", "deviceLogin": True, "models": catalogs})
         return
     action, provider, model = (request.get(k) for k in ("action", "provider", "model"))
     if not isinstance(model, str) or not re.fullmatch(r"[a-zA-Z0-9][a-zA-Z0-9._:/-]{0,199}", model):

diff --git a/docs/features/model-setup/SPEC.md b/docs/features/model-setup/SPEC.md
@@ -147,3 +147,12 @@ Shutdown also fences interpreter discovery before spawn and awaits pending commi
 
 - FR-011: Authenticated missing/unknown model configuration presents a full-screen, keyboard-contained interstitial before the workspace can be used. Loading, errors and cancelled login remain in the flow. Only authoritative configured status (or explicit model-setup capability absence) admits the workspace. Configured profiles bypass first-use setup; optional model settings can be closed. Access loss closes setup and restored access revalidates it. Preserve drafts and current provider/secret behavior.
 - CUJ-001 / TC-002 also cover FR-011. Serve the actual COM UI with synthetic provider boundaries; assert desktop/mobile viewport coverage, keyboard focus containment, Escape cannot bypass missing config, success restores workspace, reload bypass, optional settings dismissal, error recovery and access-loss/reconnect. Remove only test-owned profiles/listeners. Design: [interstitial](design/interstitial.md); captures in design/. No live provider claims.
+
+## Provider-specific model selection — #200
+FR-011: NED model setup has no Hub configuration link. Model is a required native select populated from the installed Hermes provider catalog (OpenAI API, OpenRouter, Gemini, Claude and OpenAI ChatGPT device login), with a supported default. Provider changes clear any typed key, replace choices and reset to that provider's first model. No free-text new model entry. Catalog membership describes installed support, not account entitlement or live provider availability. Authentication/account permissions remain separate.
+
+The authenticated status response includes `models` (provider → bounded model ID array) and `catalogSource: installed-hermes`. The nonce binds this snapshot; unsupported/cross-provider new choices fail 400 before authentication or profile writes. Existing configured models outside the catalog remain visible as the current disabled option, preserve chat readiness and are never silently rewritten; a supported model must be selected to replace them. Empty/unavailable lists disable Connect and offer Check connection. No new paid/provider calls are made to populate the picker; the installed Hermes catalog changes with Hermes upgrades/server restart. Legacy `settingsUrl` remains API-compatible but has no UI consumer.
+
+Copy: “Loading models…”, “Models unavailable”, “Models supported by this NED installation. Access depends on your provider account.”, “Model list is unavailable. Check connection to try again.”, and model ID followed by “(current configuration)” for an existing unlisted model. TC-001 covers provider/nonce membership, TC-002 served UI covers switching/empty/retry/preservation and absent link, TC-003 actual Hermes covers the installed catalog boundary.
+
+OpenAI API choices use Hermes’ native Chat Completions catalog, matching NED’s current local OpenAI transport; Responses-only picker entries are excluded. Other providers retain their native Hermes catalog/transport.
